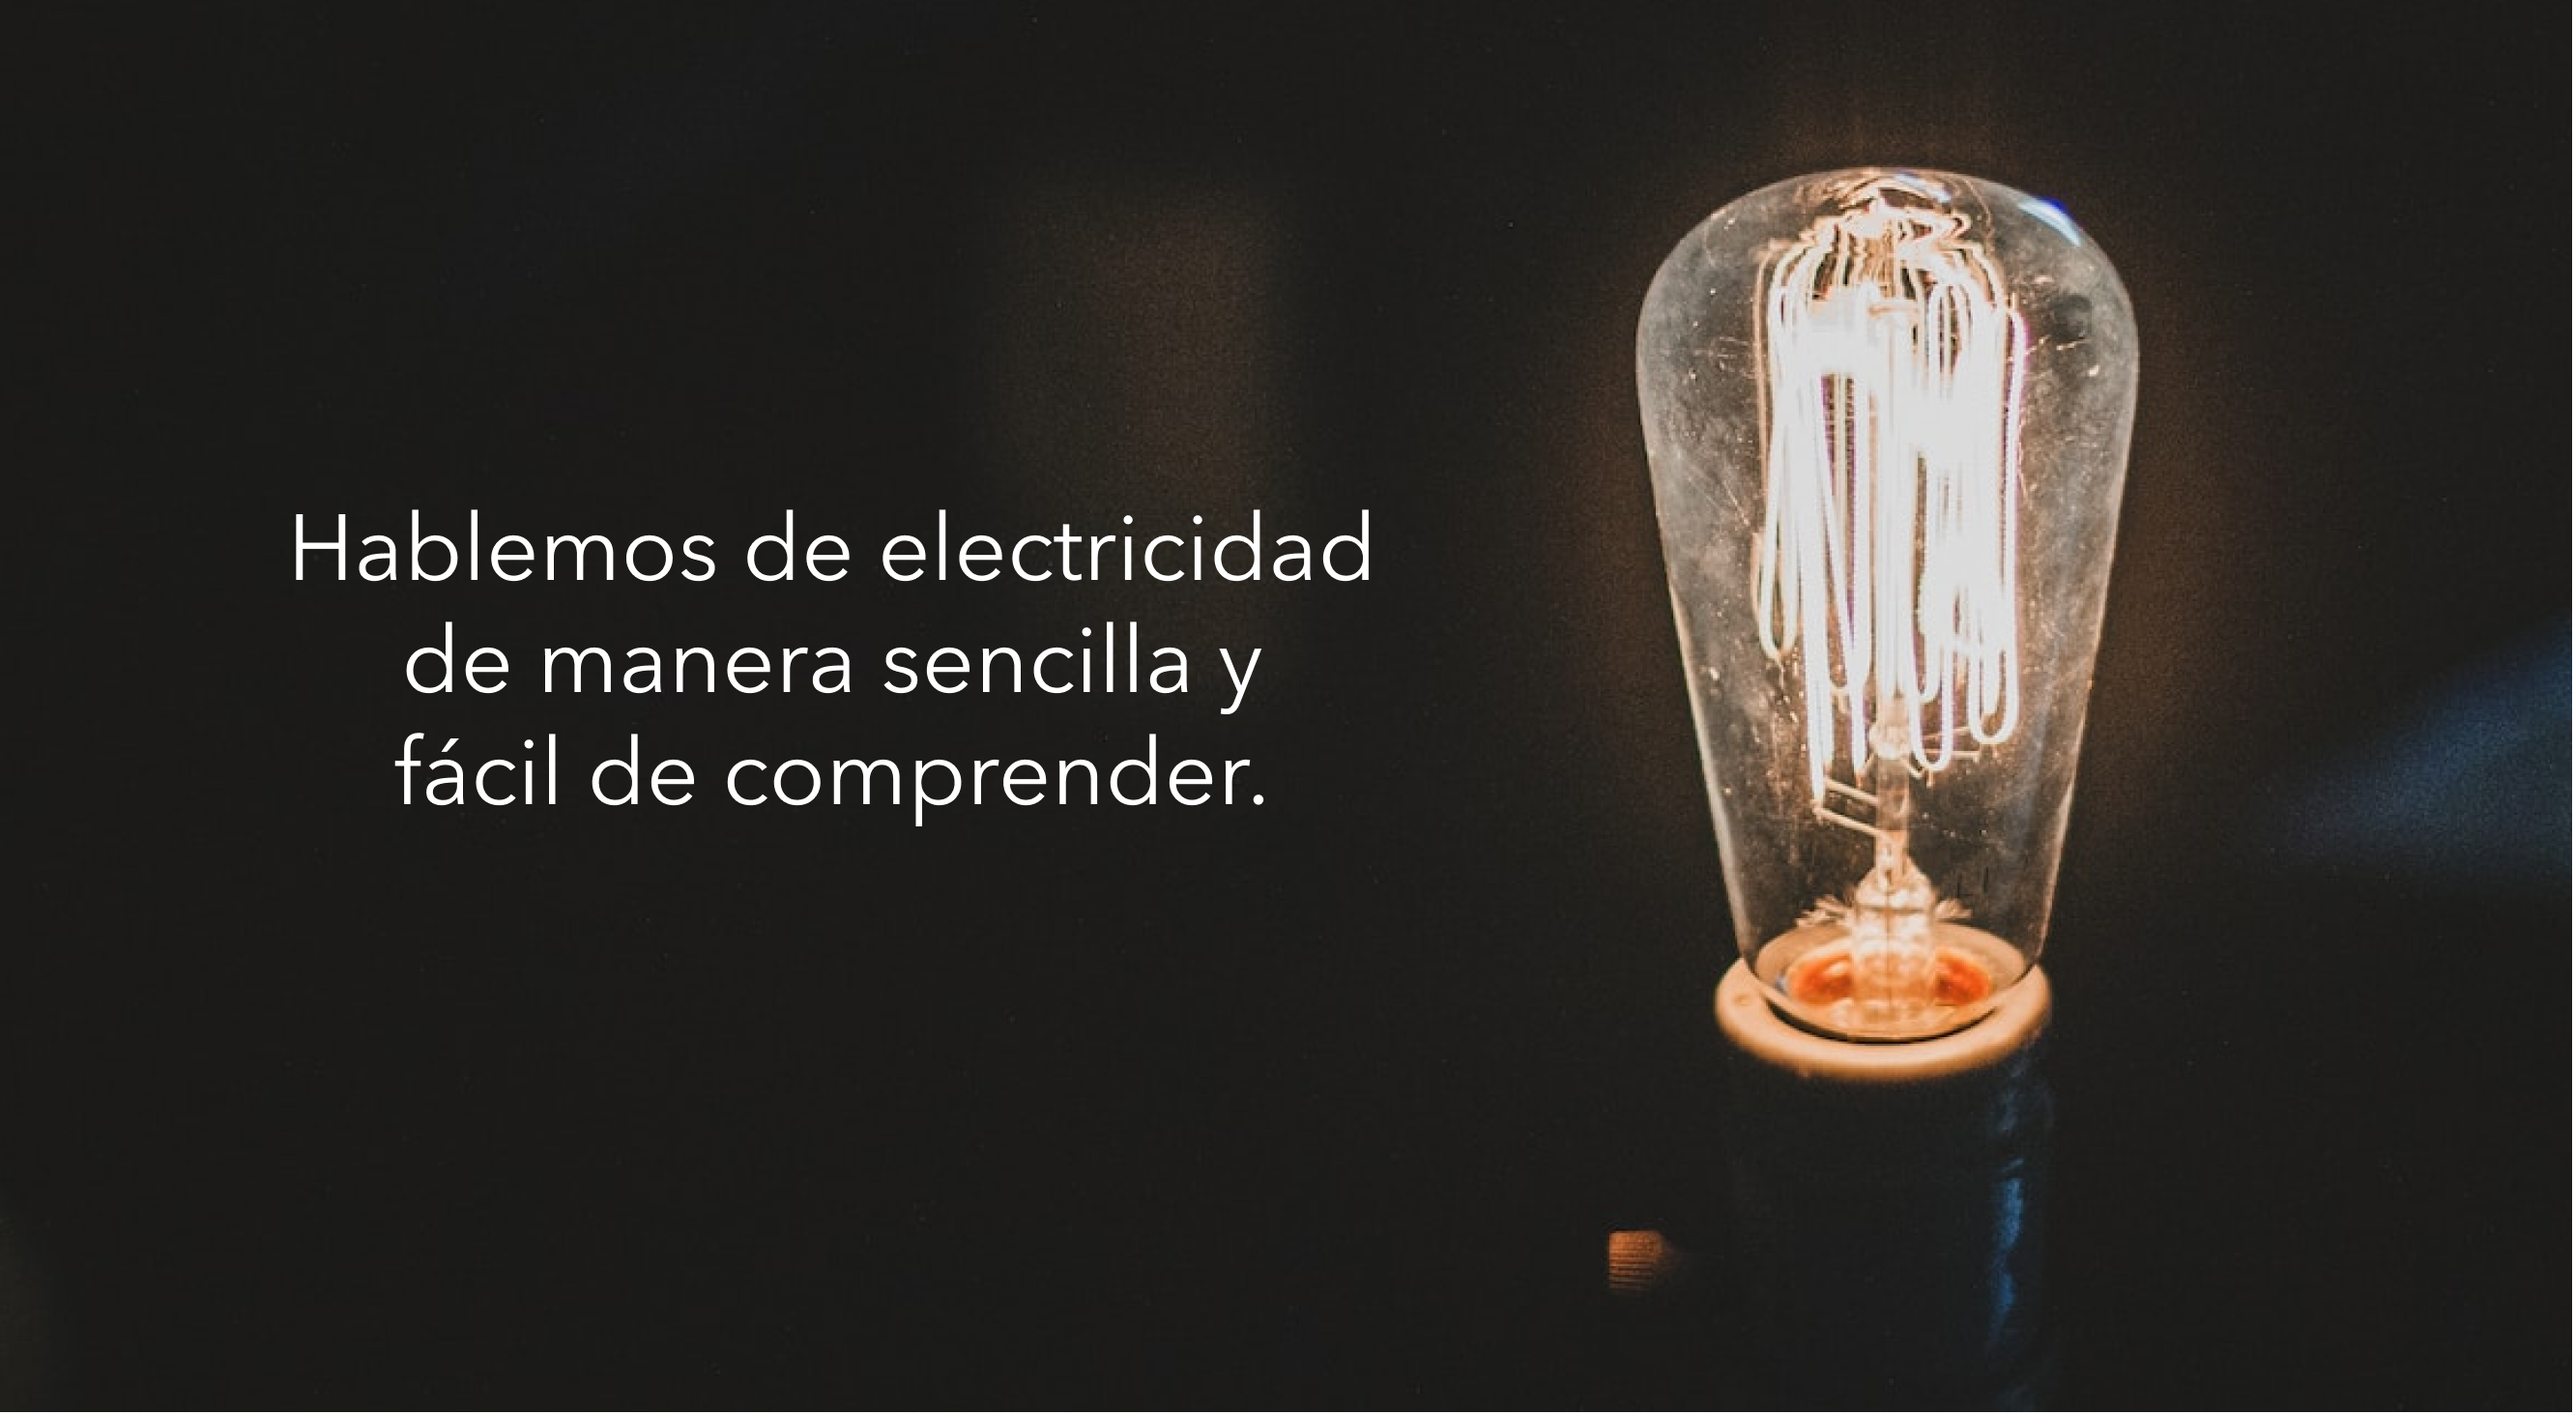
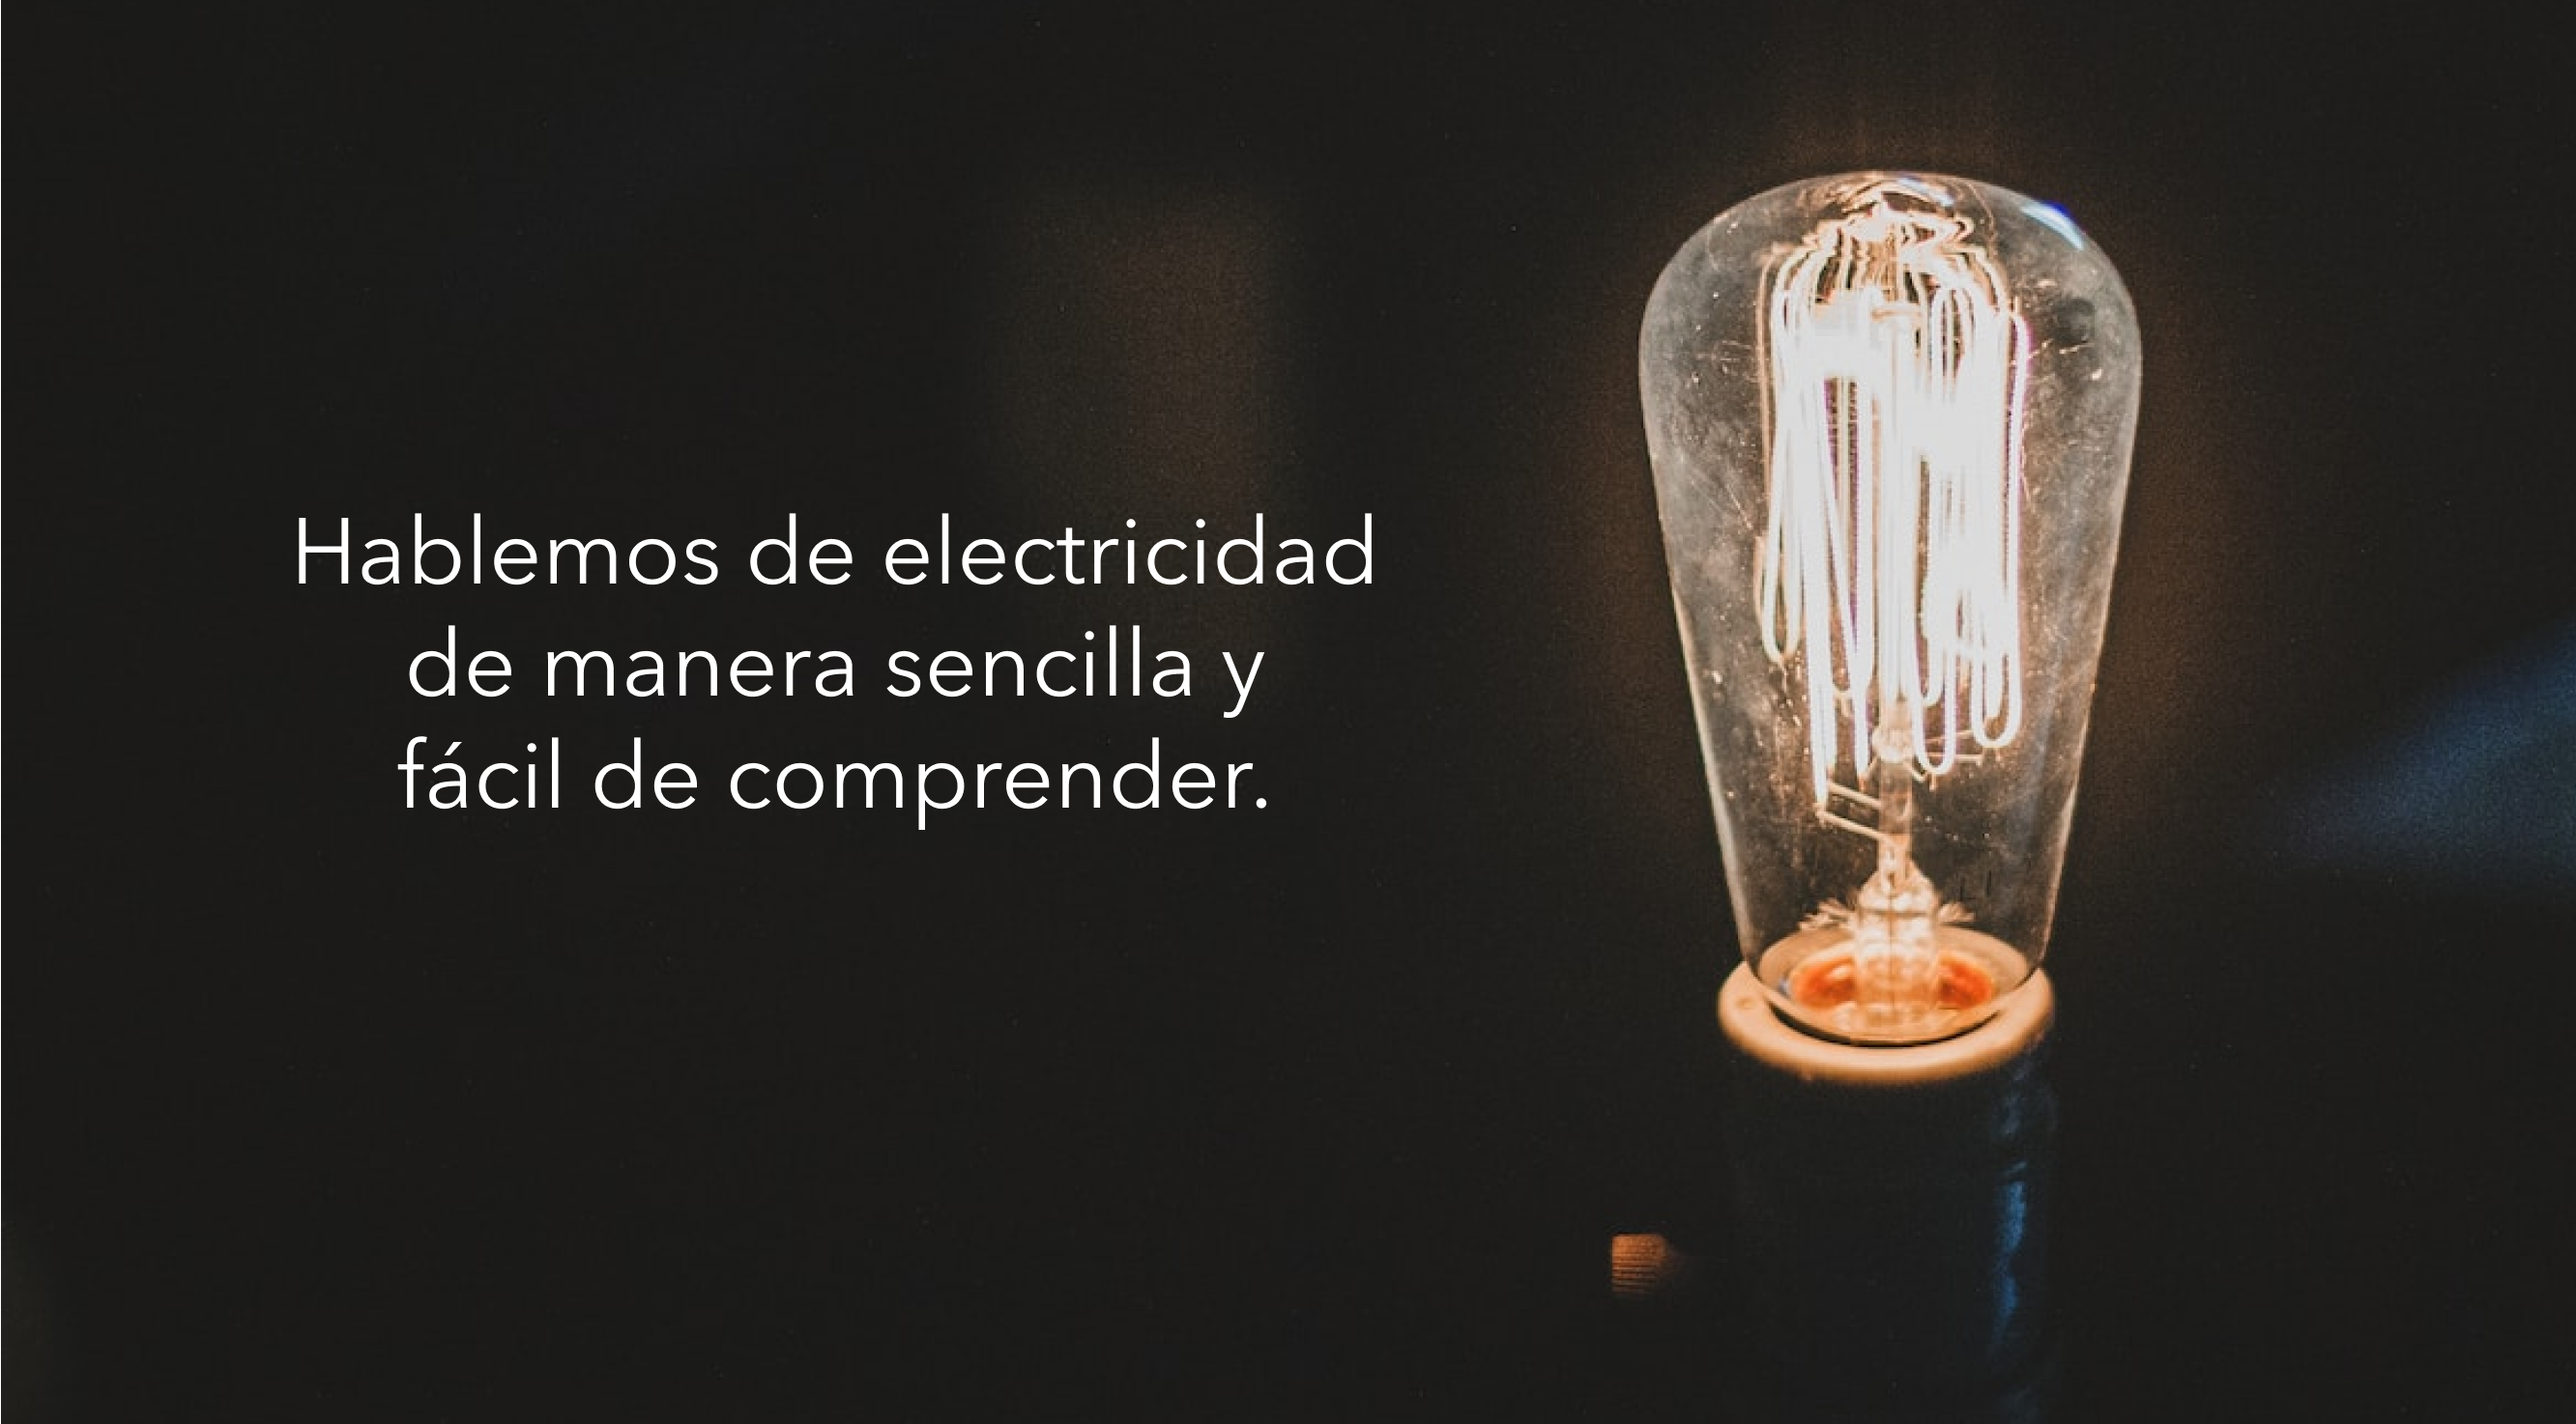
[feat] add footer and fixes

diff --git a/src/views/EvolucionView.vue b/src/views/EvolucionView.vue
@@ -1,5 +1,5 @@
 <template>
-    <v-app>
+    <v-layout>
         <v-main class="bg-image">
             <div v-if="$route.path === '/evolucion-de-movilidad'">
                 <Evolucion1 v-if="step === 0"/>
@@ -20,7 +20,10 @@
         <!--<v-footer color="black" class="">
             <p>pruebas</p>
         </v-footer>-->
-    </v-app>
+    </v-layout>
+    <v-footer color="black" class="index-2" inset app v-if="!(step === 7) && !(step === 9) && !(step === 11)">
+        <p>© 2022 Todos los derechos reservados</p>
+    </v-footer>
 </template>
 
 <script setup>
@@ -33,7 +36,7 @@ import TipotrenTable from '../components/evolucion/TipotrenTable.vue';
 import Repaso from '../components/evolucion/Repaso.vue';
 import Repaso2 from '../components/evolucion/Repaso2.vue';
 import Repaso3 from '../components/evolucion/Repaso3.vue';
-import Correcto from '..//components/Correcto.vue'
+import Correcto from '../components/Correcto.vue'
 import { storeToRefs } from 'pinia';
 import { useCounterStore } from '../stores/counter';
 

diff --git a/src/views/BEVView.vue b/src/views/BEVView.vue
@@ -1,6 +1,6 @@
 <template>
-    <v-app>
-        <v-main :class="{'bg-image': step === 0}">
+    <v-layout>
+        <v-main :class="{'bg-image': step === 0, 'bg-gradient': step === 1}">
             <div v-if="$route.path === '/cargando-un-bev'">
                 <CargandoBev  v-if="step === 0"/>
                 <Inquietudes v-if="step === 1"/>
@@ -16,7 +16,10 @@
                 <Correcto v-if="step === 11" />
             </div>
         </v-main>
-    </v-app>
+    </v-layout>
+    <v-footer color="black" class="index-2" inset app v-if="!(step === 0) && !(step === 7) && !(step === 9) && !(step === 11)">
+        <p>© 2022 Todos los derechos reservados</p>
+    </v-footer>
 </template>
 
 <script setup>
@@ -44,5 +47,13 @@ const {step} = storeToRefs(store)
   background-repeat: no-repeat;
   background-position: center center;
   height: 100%;
+}
+
+.index-2{
+    z-index: 3;
+}
+
+.bg-gradient{
+    background: linear-gradient(to right, black, gray);
 }
 </style>

diff --git a/src/components/electricidad/Einstein.vue b/src/components/electricidad/Einstein.vue
@@ -6,7 +6,7 @@
               <v-col cols="8" align="center" >
                 <v-dialog v-model="dialog" persistent width="880" class="bg-overlay">
                   <v-img :src="user" max-height="170" class="index-3"></v-img>
-                  <v-card class="position-card overflow-hidden" color="#D9D9D9">
+                  <v-card class="position-card overflow-hidden rounded-xl" color="#D9D9D9">
                     <v-card-title class="mt-7">
                       <p class="font-weight-bold text-center mt-7 font-avenir font-size-30">Recordatorio amistoso</p>
                     </v-card-title>
@@ -32,7 +32,7 @@
             <div class="bg-black">
               <v-row justify="center" class="m-0 p-0 bg-black" no-gutters>
                 <v-col cols="12">
-                  <v-img :src="albert" max-height="870"></v-img>
+                  <v-img :src="albert" max-height="840"></v-img>
                 </v-col>
               </v-row>
             </div>

diff --git a/src/views/ElectricidadView.vue b/src/views/ElectricidadView.vue
@@ -1,6 +1,6 @@
 <template>
-    <v-app>
-        <v-main :class="{'bg-image' : step === 0}">
+    <v-layout>
+        <v-main :class="{'bg-image' : step <= 1, 'bg-black': step === 16}">
             <div v-if="$route.path === '/fundamentos-de-electricidad'">
                 <Presentacion v-if="step === 0"/>
                 <ConceptosBasicos v-if="step === 1"/>
@@ -27,7 +27,10 @@
                 <Correcto v-if="step === 22"/>
             </div>
         </v-main>
-    </v-app>
+    </v-layout>
+    <v-footer color="black" class="index-2" inset app v-if="!(step === 0) && !(step === 18) && !(step === 20) && !(step === 22)">
+        <p>© 2022 Todos los derechos reservados</p>
+    </v-footer>
 </template>
 
 <script setup>
@@ -67,5 +70,13 @@ const {step} = storeToRefs(store)
   background-repeat: no-repeat;
   background-position: center center;
   height: 100%;
+}
+
+.bg-black{
+    background-color: black;
+}
+
+.index-3{
+    z-index: 3;
 }
 </style>

diff --git a/src/components/electricidad/ConceptosBasicos9.vue b/src/components/electricidad/ConceptosBasicos9.vue
@@ -2,7 +2,7 @@
     <div>
         <content-template title="ELECTRICIDAD" subtitle="Conceptos básicos">
             <template v-slot:content>
-                <div class="mt-10">
+                <div class="mt-5">
                     <v-row justify="start">
                         <v-col cols="2">
                             <v-img :src="user" max-height="170"></v-img>
@@ -11,7 +11,7 @@
 
                     <v-row justify="center">
                         <v-col cols="12" align="center">
-                            <v-img :src="kilowatt" max-height="650"></v-img>
+                            <v-img :src="kilowatt" max-height="620"></v-img>
                         </v-col>
                     </v-row>
                 </div>

diff --git a/src/components/templates/ContentTemplate.vue b/src/components/templates/ContentTemplate.vue
@@ -1,6 +1,6 @@
 <template>
     <div>
-        <v-navigation-drawer permanent location="left" color="#FDBD31">
+        <v-navigation-drawer permanent location="left" color="#FDBD31" class="index-1">
             <template v-slot:prepend>
                 <v-list-item :class="{'my-4': windowHeight > 900, 'my-2':windowHeight < 700}">
                     <v-img :src="solologo" contain heigh max-height="40"></v-img>
@@ -233,5 +233,12 @@ function moduloElectricidad(){
     background-size: cover;
     background-repeat: no-repeat;
     background-position: center center;
+}
+
+.index-1{
+    z-index: 1 !important;
+}
+.index-2{
+    z-index:3 !important;
 }
 </style>

diff --git a/src/components/electricidad/ConcentosBasicos.vue b/src/components/electricidad/ConcentosBasicos.vue
@@ -1,11 +1,11 @@
 <template>
-    <div>
+    <div class="">
         <content-template>
             <template v-slot:content>
-                <div class="mt-5">
-                    <v-row justify="start" class="bg-conceptos">
+                <div class="mt-6">
+                    <v-row justify="center" class="">
                         <v-col cols="12" align-self="center" class="h-100">
-                            <v-img :src="conceptos" max-height="910" cover></v-img>
+                            <v-img :src="conceptos" max-height="815" cover></v-img>
                         </v-col>
                     </v-row>
                 </div>

diff --git a/src/components/bev/Inquietudes.vue b/src/components/bev/Inquietudes.vue
@@ -8,7 +8,11 @@
                             <v-img :src="objeciones" max-height="872"></v-img>
                         </v-col>
                     </v-row>-->
-                    <v-img :src="objeciones" max-height="873"></v-img>
+                    <v-row justify="end">
+                        <v-col cols="12" align="end">
+                            <v-img :src="objeciones" max-height="870" cover></v-img>
+                        </v-col>
+                    </v-row>
                 </div>
             </template>
         </content-template>

diff --git a/src/views/InstruccionesView.vue b/src/views/InstruccionesView.vue
@@ -1,9 +1,9 @@
 <template>
-    <v-app>
+    <v-layout>
         <v-main class="bg-image">
             <instrucciones></instrucciones>
         </v-main>
-    </v-app>
+    </v-layout>
 </template>
 
 <script setup>

diff --git a/src/views/TemarioView.vue b/src/views/TemarioView.vue
@@ -1,9 +1,9 @@
 <template>
-    <v-app>
+    <v-layout>
         <v-main class="bg-image">
             <temario></temario>
         </v-main>
-    </v-app>
+    </v-layout>
 </template>
 
 <script setup>

diff --git a/src/views/ModuloDirectivoView.vue b/src/views/ModuloDirectivoView.vue
@@ -1,9 +1,9 @@
 <template>
-    <v-app>
+    <v-layout>
         <v-main class="bg-image">
             <modulo></modulo>
         </v-main>
-    </v-app>
+    </v-layout>
 </template>
 
 <script setup>

diff --git a/src/views/HomeView.vue b/src/views/HomeView.vue
@@ -1,9 +1,9 @@
 <template>
-  <v-app>
+  <v-layout>
     <v-main class="bg-image">
       <the-welcome></the-welcome>
     </v-main>
-  </v-app>
+  </v-layout>
 </template>
 
 <script setup>
